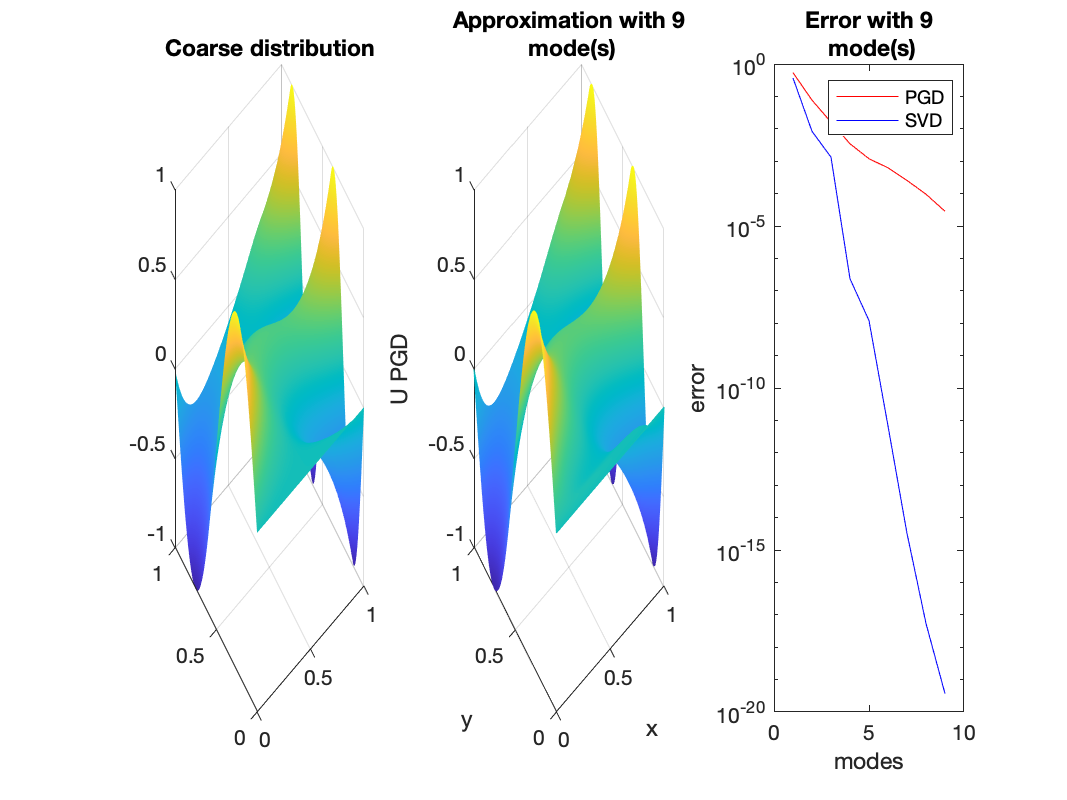
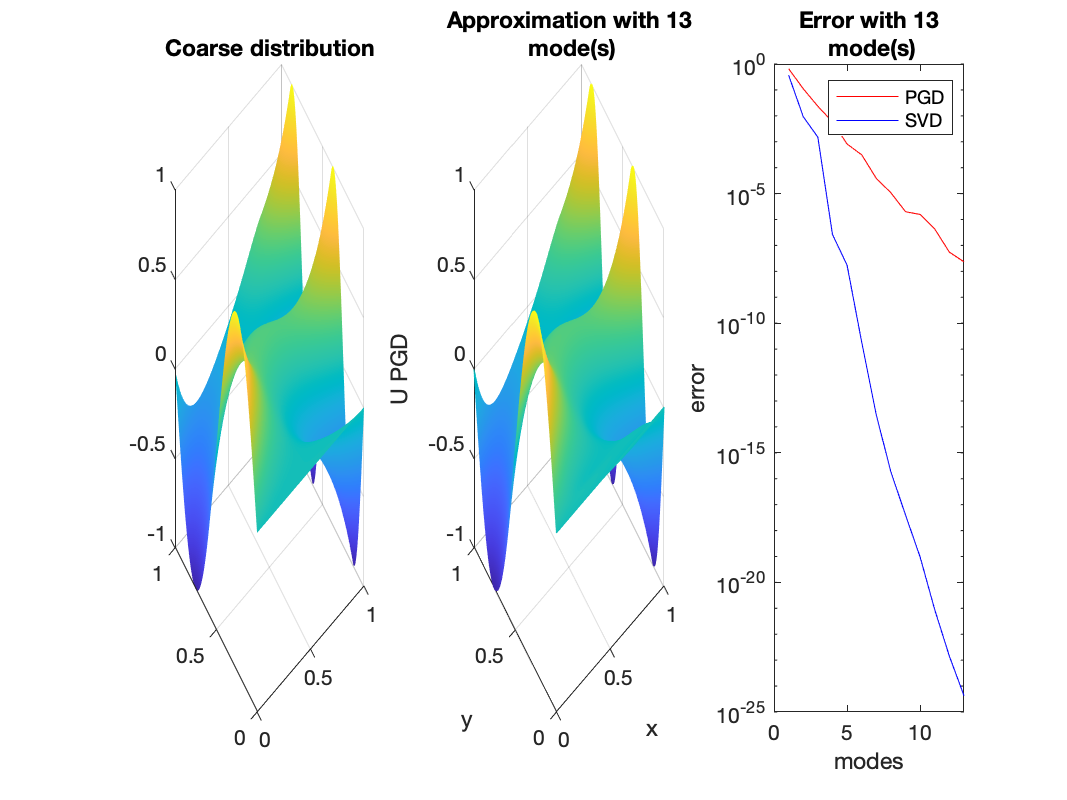
[TP2] Add images for the diff_eq problem (tag:w)

diff --git a/TP2_eleve/TP2_moeeze.m b/TP2_eleve/TP2_moeeze.m
@@ -11,7 +11,7 @@ alpha = 5;
 L = 1.0; % length of the domain
 T = 1.0; % final time
 nx = 1000; % number of grid points
-nt = 100; % number of time steps
+nt = 1000; % number of time steps
 
 lx0 = 0.0; % left boundary
 lt0 = 0.0; % initial time
@@ -42,11 +42,11 @@ udLd = -sin(4*pi*lt)/T; % boundary condition
 
 %% discrete force
 if if_force==1
-    f = (1e3 * (sin(3*pi*lt)/T)' * (sin(5*pi*lx)/L))';
+    %f = (1e3 * (sin(3*pi*lt)/T)' * (sin(5*pi*lx)/L))';
     [mesh_x_f,mesh_t_f] = meshgrid(tf,xf);
     [mesh_x_g,mesh_t_g] = meshgrid(tc,xc);
-    %fg = 10*rand(nt/10,nx/10);
-    %f = interp2(mesh_x_g,mesh_t_g,fg,mesh_x_f,mesh_t_f,'spline');
+    fg = 10*rand(nt/10,nx/10);
+    f = interp2(mesh_x_g,mesh_t_g,fg,mesh_x_f,mesh_t_f,'spline');
 end
 %%%%%%%%%%%%%%%%%%%%%%%%%%%%%%%%%%%%%%%%%%%%%%%%%%%%%%%%%%%%%%
 
@@ -130,7 +130,7 @@ U_SVD = zeros(nt,nx);
 lambda = lt;
 iter = 0;
 W = zeros(nx, nt) + ucl;
-nb_modes = 9;
+nb_modes = 13;
 error = zeros(1, nb_modes);
 error_svd = zeros(1, nb_modes);
 for i = 1:nb_modes
@@ -192,9 +192,11 @@ for i = 1:nb_modes
     Title2 = ["Error with "+ i " mode(s)"];
     title(Title2)    
     pause(0.5)
-    figure(3)
-    subplot(3,3,i)
-    mesh(lx_mesh,lt_mesh,(Lambda * lambda)');
+    if i<10
+        figure(3)
+        subplot(3,3,i)
+        mesh(lx_mesh,lt_mesh,(Lambda * lambda)');
+    end
 end
 
 u_red = W;
